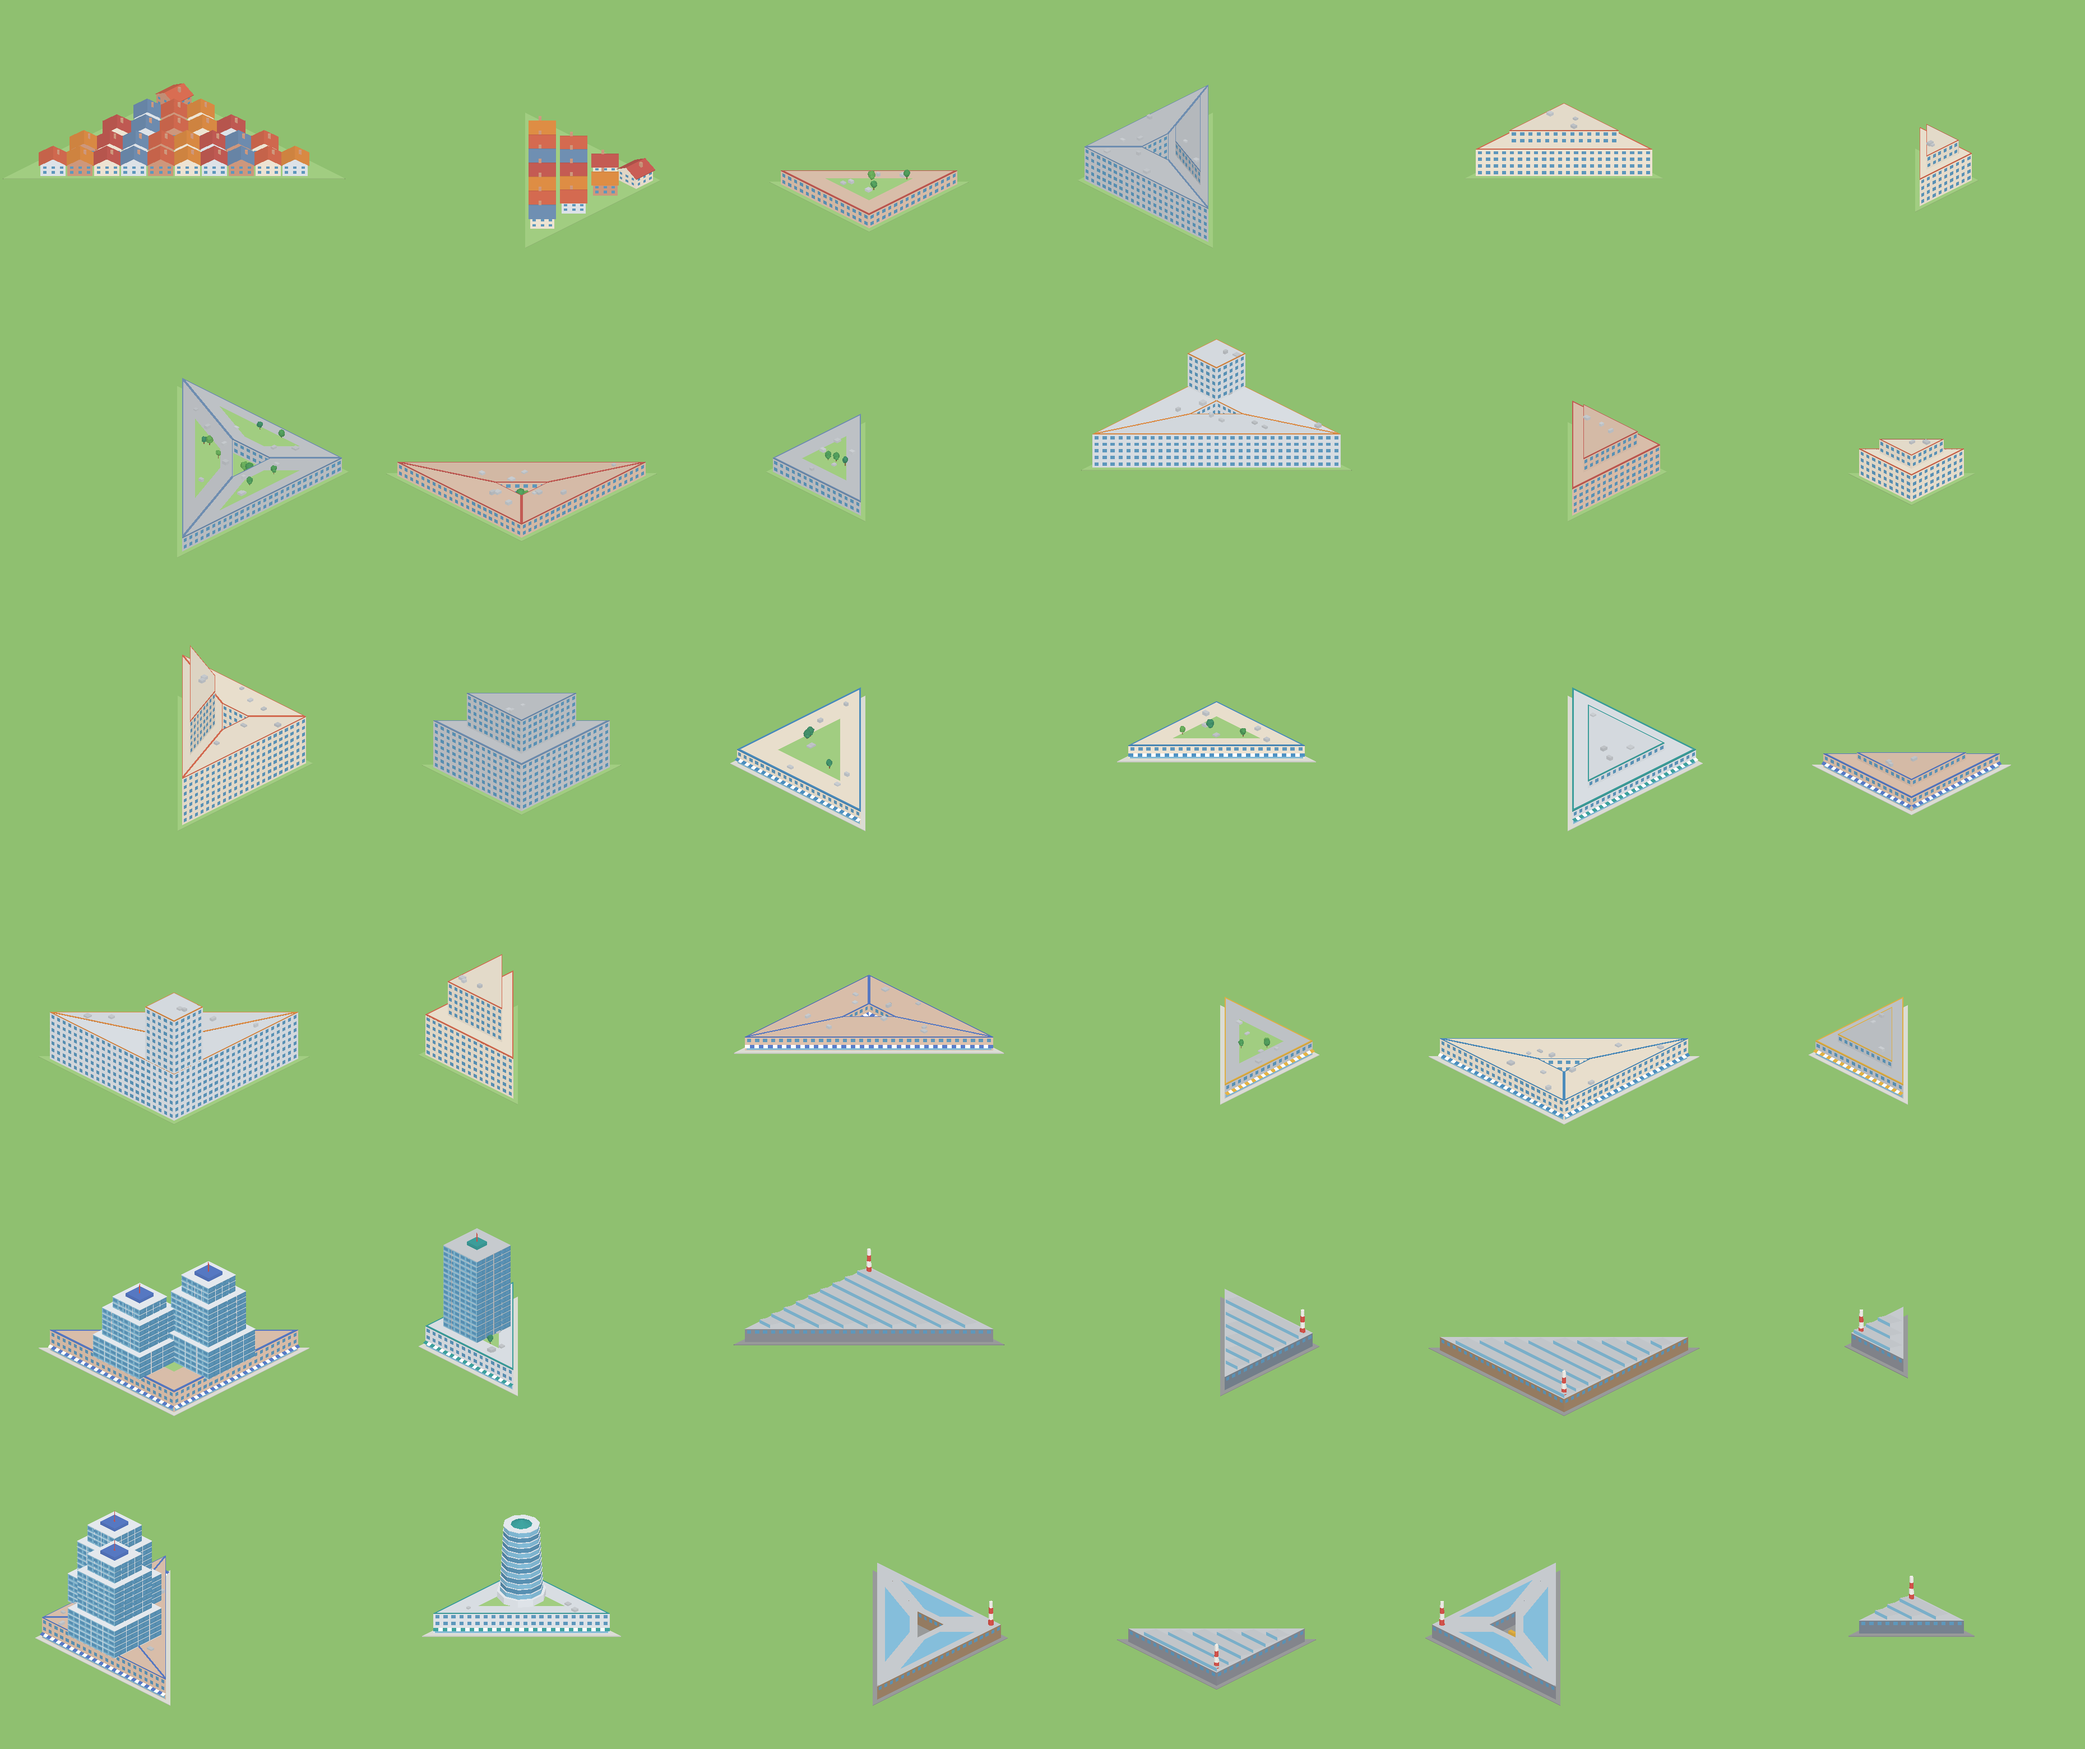
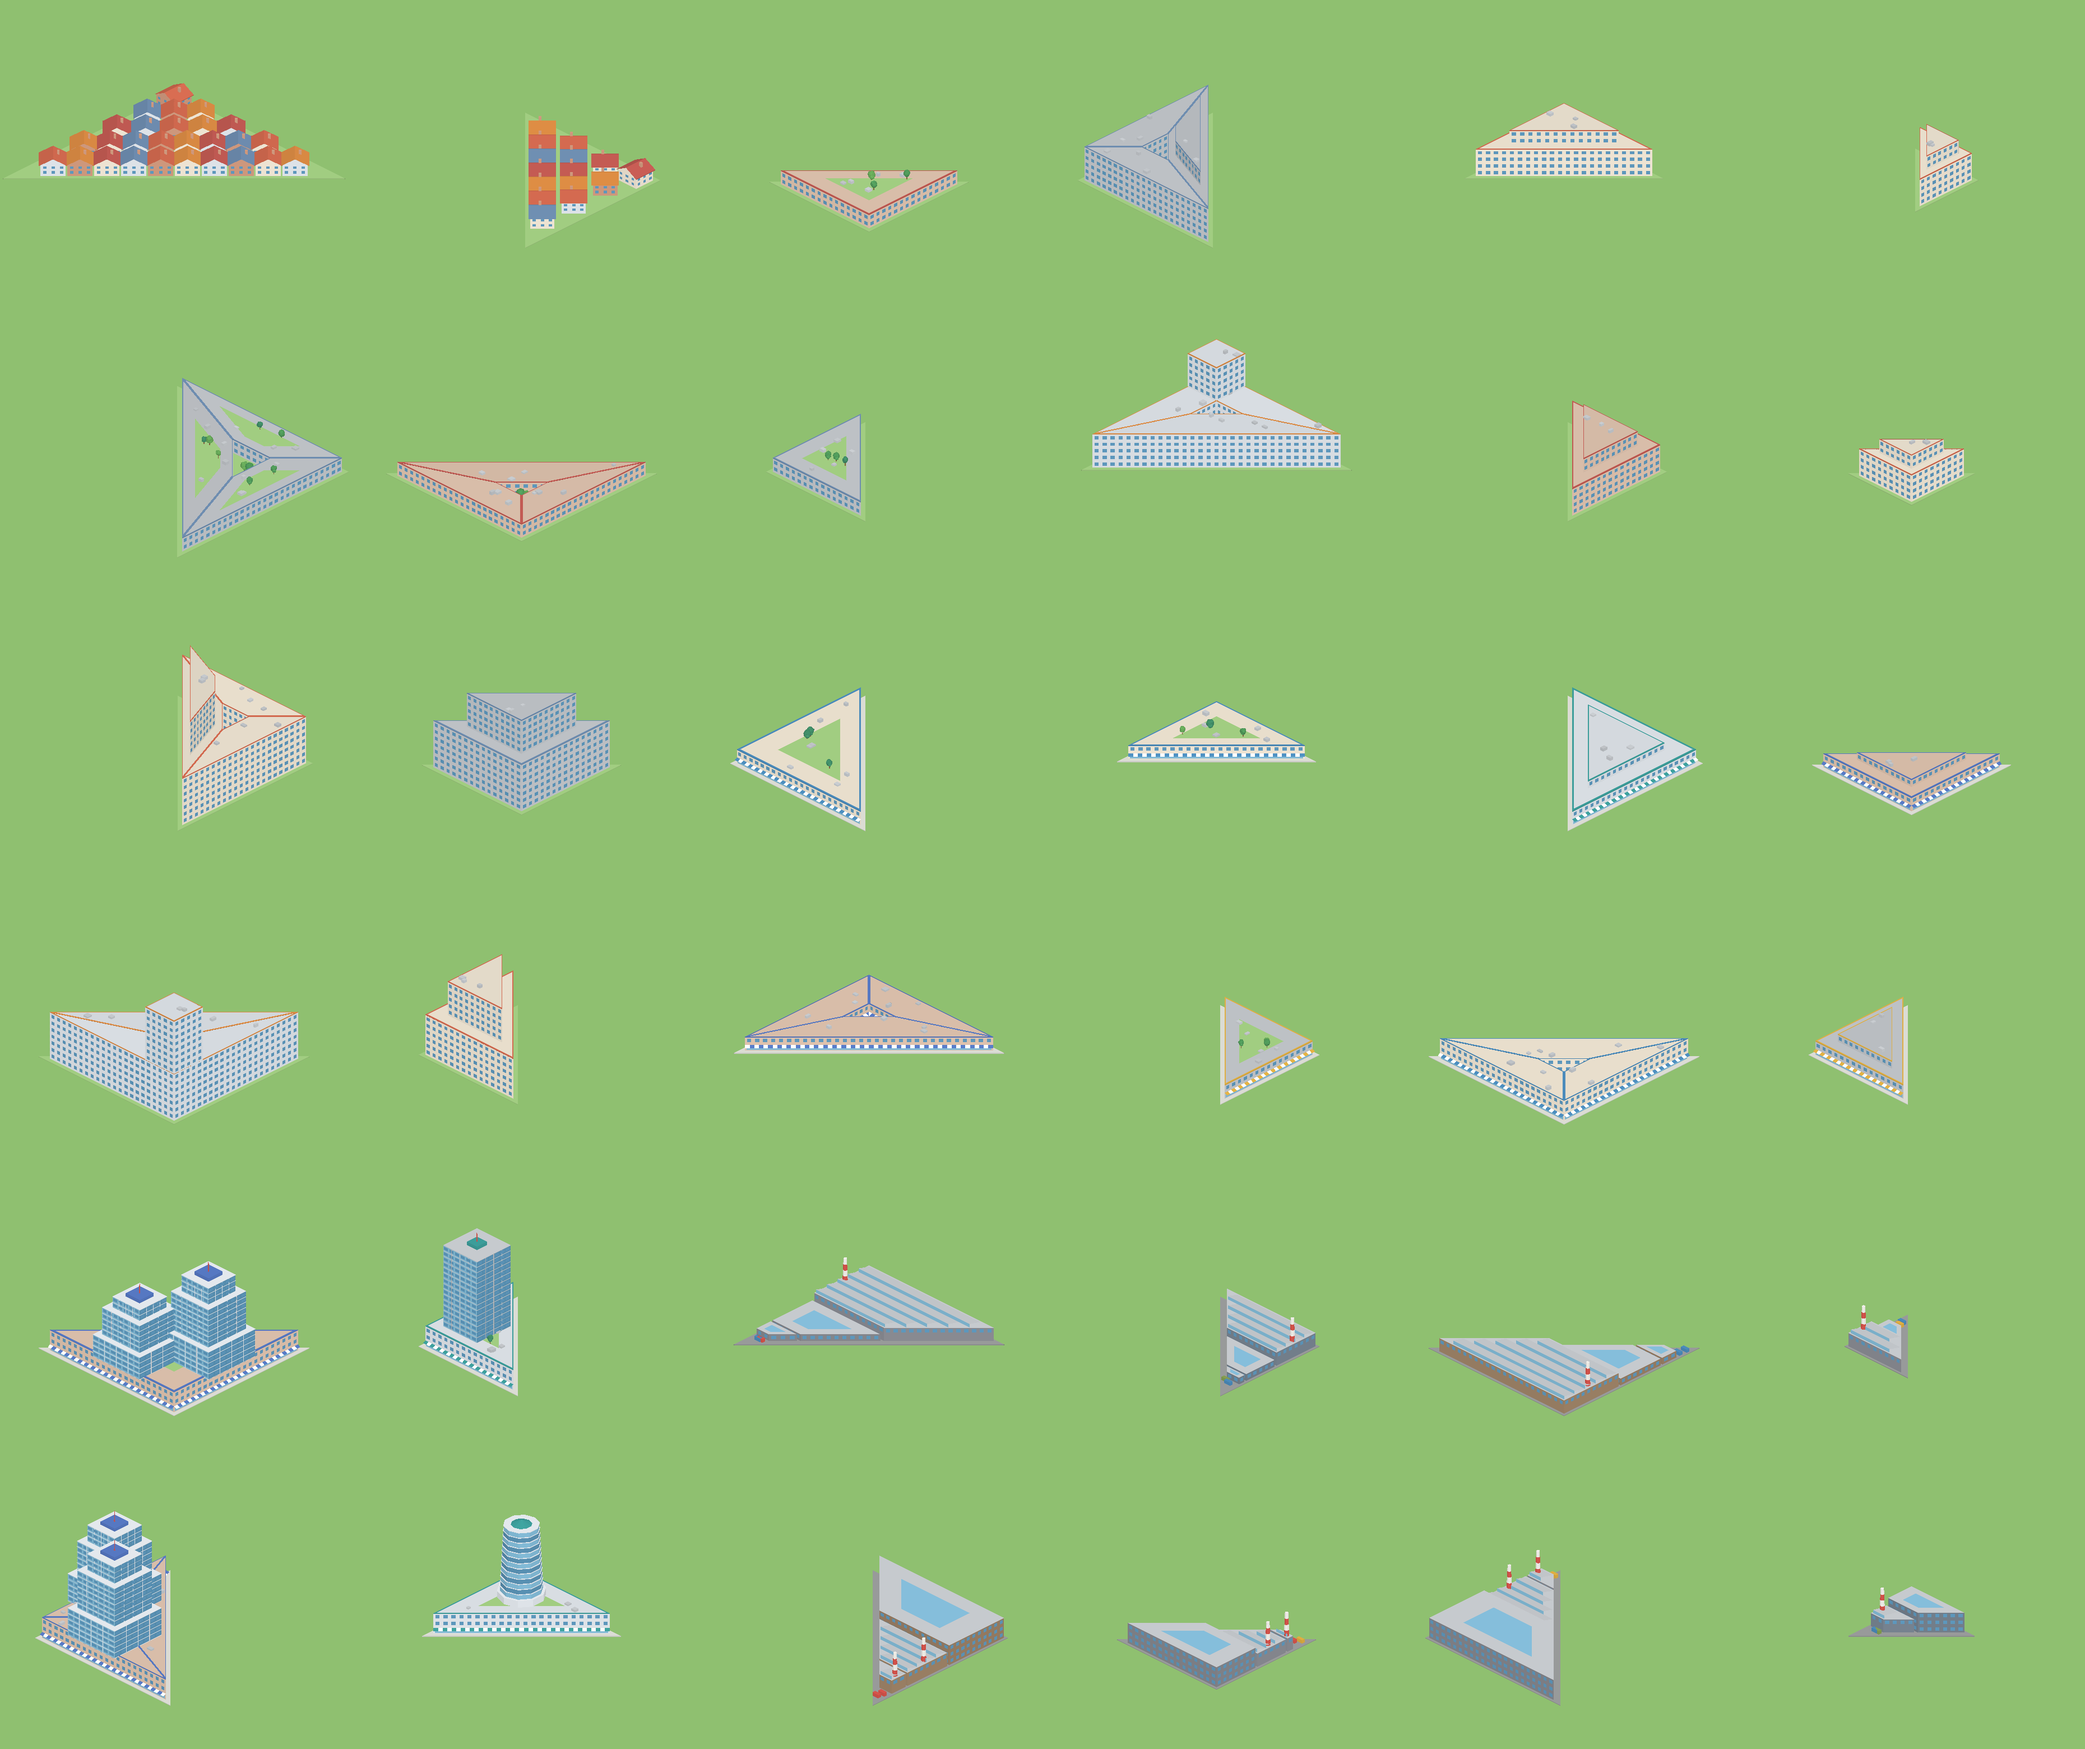
feat(spike): 三角工业地块改成一排排直角厂房
厂房沿直角边铺开，靠斜路的一头按 45° 收掉，地块越大排数越多，最后一排铺到离尖角 0.75 格，
尖角是堆场。90 种大三角规格占地检查全过，最小覆盖 54%，最大空地半径 0.90 格。

Claude-Session: https://claude.ai/code/session_0183GQ8ELtaWdPVAfsiv99r6

diff --git a/spikes/art-direction/web/kit/objects.js b/spikes/art-direction/web/kit/objects.js
@@ -19,6 +19,14 @@ const ROW_MIN_LEGS = 4;
 const ROW_CORNER = ROW_HOUSE * 0.354;
 const MAX_TOWER = 1.3;
 const GREEN_ROOF_AREA = 2.5;
+const HALL_EDGE = 0.12;
+const HALL_INSET = 0.06;
+const HALL_GAP = 0.05;
+const HALL_SHARES = [0.44, 0.32, 0.18];
+const MIN_HALL_DEPTH = 0.12;
+const APEX_LEGS = 0.75;
+const YARD_LEGS = 0.4;
+const TANK_LEGS = 0.9;
 const PARKING_SIDES = [
   [1, 0],
   [0, 1],
@@ -895,20 +903,33 @@ function commercialBlock(lot) {
   if (level === 3) towersOn(lot, high * FLOOR);
 }
 
-/** 厂房的锯齿屋顶，一排排铺满楼形。屋脊总在世界 +z 一侧，玻璃才朝着相机。 */
-function sawRoof(lot, y) {
+/** 三角地块上的一座厂房：沿一条直角边铺开，靠斜路的一头按 45° 收掉，v 从 v0 到 v1。 */
+function hallBand(plan, v0, v1) {
+  const reach = (v) => plan.slope - v - HALL_INSET;
+  return [
+    [HALL_EDGE, v0],
+    [reach(v0), v0],
+    [reach(v1), v1],
+    [HALL_EDGE, v1],
+  ];
+}
+
+/** 厂房的锯齿屋顶，一排排铺满一座厂房。屋脊总在世界 +z 一侧，玻璃才朝着相机。 */
+function sawRoof(lot, v0, v1, y) {
   const { b, plan, sz, toLocal, P } = lot;
   const roof = linear(P.wall.concrete);
   const glass = linear(P.wall.glass);
-  const pitch = 0.34;
   const rise = 0.075;
-  const start = EDGE + 0.03;
+  const start = HALL_EDGE + 0.03;
+  const teeth = Math.max(1, Math.round((v1 - v0) / 0.3));
+  const pitch = (v1 - v0 - 0.06) / teeth;
   const point = (u, v, h) => {
     const [x, z] = toLocal(u, v);
     return [x, h, z];
   };
-  for (let v = start; ; v += pitch) {
-    const end = plan.slope - v - pitch - 0.03;
+  for (let i = 0; i < teeth; i += 1) {
+    const v = v0 + 0.03 + pitch * i;
+    const end = plan.slope - v - pitch - HALL_INSET - 0.03;
     if (end - start < 0.2) return;
     const [ridge, valley] = sz > 0 ? [v + pitch, v] : [v, v + pitch];
     b.poly(
@@ -933,22 +954,59 @@ function sawRoof(lot, y) {
   }
 }
 
-/** 工业是占满地块的厂房。变体 1 留出堆场，天窗开在三翼的屋顶上。 */
+/**
+ * 工业是一排排直角的厂房，不把楼身做成三角形：厂房沿一条直角边铺开，靠斜路的一头按 45° 收掉，
+ * 地块越大排数越多，最后一排铺到离尖角 APEX_LEGS 为止，剩下的尖角是堆场，放得下时立两个储罐。
+ * 变体 0 第一排是锯齿顶车间，后排是平顶仓库；变体 1 反过来，第一排是高一些的平顶仓库，车间在后排。
+ * 烟囱立在车间靠直角边的一头。
+ */
 function industrialBlock(lot) {
-  const { b, plan, place, toLocal, variant, seed, P } = lot;
+  const { b, plan, legs, place, toLocal, variant, seed, P } = lot;
   const wall = linear(P.zones.industrial[seed % P.zones.industrial.length]);
   const roof = linear(P.wall.concrete);
-  const floors = 2;
-  const top = LOT_Y + floors * FLOOR;
-  const open = variant === 1 && plan.court;
-  for (const part of open ? plan.wings : [plan.outer]) {
-    prism(b, place(part), LOT_Y, floors, wall, roof, P, { skip: 1 });
-    if (open) flat(b, scaled(place(part), 0.6), top + 0.002, linear(P.wall.glass));
+  const glass = linear(P.wall.glass);
+  const concrete = linear(P.wall.concrete);
+  const span = plan.slope - 2 * HALL_EDGE - HALL_INSET;
+  const bands = [];
+  let v = HALL_EDGE;
+  for (const share of HALL_SHARES) {
+    let depth = span * share;
+    if (legs - (v + depth + HALL_GAP) < APEX_LEGS) depth = legs - APEX_LEGS - v;
+    if (depth < MIN_HALL_DEPTH) break;
+    bands.push([v, v + depth]);
+    v += depth + HALL_GAP;
   }
-  if (open) courtyard(b, place(plan.court), 'i', P);
-  else sawRoof(lot, top);
-  const [x, z] = toLocal(EDGE + 0.14, EDGE + 0.14);
-  chimney(b, x, z, top, P);
+  bands.forEach(([v0, v1], index) => {
+    const workshop = (index === 0) === (variant === 0);
+    const floors = workshop ? 2 : index === 0 ? 3 : 1;
+    const top = LOT_Y + floors * FLOOR;
+    const points = place(hallBand(plan, v0, v1));
+    prism(b, points, LOT_Y, floors, workshop ? wall : shade(wall, 0.92), roof, P, {
+      skip: workshop ? 1 : 0,
+    });
+    if (workshop) {
+      sawRoof(lot, v0, v1, top);
+      const [x, z] = toLocal(HALL_EDGE + 0.1, (v0 + v1) / 2);
+      chimney(b, x, z, top, P);
+    } else flat(b, scaled(points, 0.55), top + 0.002, glass);
+  });
+  const apex = legs - LOT_SHRINK * 2.4 - v - HALL_EDGE;
+  if (apex < YARD_LEGS) return;
+  courtyard(
+    b,
+    place([
+      [HALL_EDGE, v],
+      [HALL_EDGE + apex, v],
+      [HALL_EDGE, v + apex],
+    ]),
+    'i',
+    P,
+  );
+  if (apex < TANK_LEGS) return;
+  for (const u of [0.3, 0.62]) {
+    const [x, z] = toLocal(HALL_EDGE + u * apex, v + 0.3 * apex);
+    b.cylinder(x, LOT_Y, z, 0.11, 0.11, 0.16, 10, concrete, shade(concrete, 0.6));
+  }
 }
 
 const TRIANGLE_MASSES = { r: residentialBlock, c: commercialBlock, i: industrialBlock };
